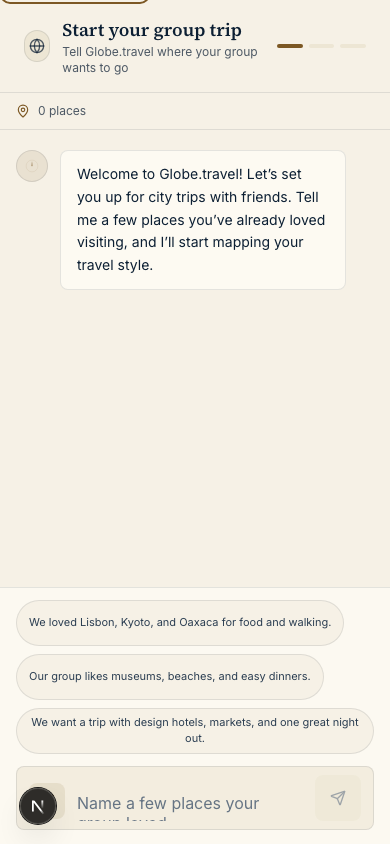
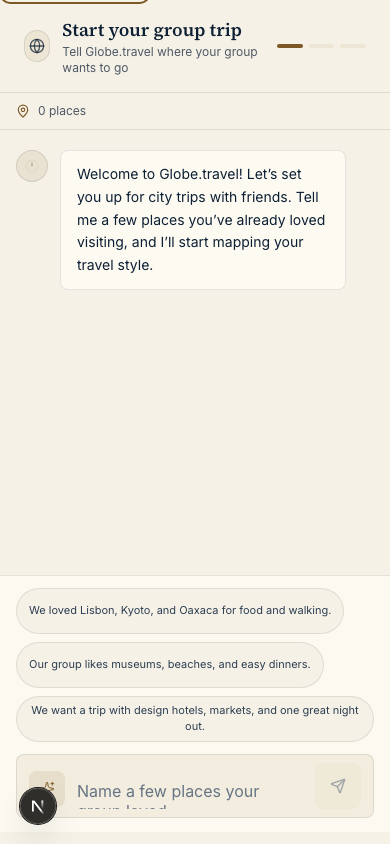
Fix mobile onboarding shell overlap

diff --git a/client/app/(app)/layout.tsx b/client/app/(app)/layout.tsx
@@ -1,21 +1,31 @@
 'use client'
 
+import { usePathname } from 'next/navigation'
 import { AuthProvider } from '@/components/providers/AuthProvider'
 import { QueryProvider } from '@/components/providers/QueryProvider'
 import { BottomNav } from '@/components/layout/BottomNav'
 import { Sidebar } from '@/components/layout/Sidebar'
 
 export default function AppLayout({ children }: { children: React.ReactNode }) {
+  const pathname = usePathname()
+  const isFullscreenFlow = pathname === '/onboarding'
+
   return (
     <QueryProvider>
       <AuthProvider>
-        <div className="app-shell flex bg-background text-foreground">
-          <Sidebar />
-          <main className="app-main flex-1">
+        {isFullscreenFlow ? (
+          <main className="h-dvh overflow-hidden bg-paper text-foreground">
             {children}
           </main>
-          <BottomNav />
-        </div>
+        ) : (
+          <div className="app-shell flex bg-background text-foreground">
+            <Sidebar />
+            <main className="app-main flex-1">
+              {children}
+            </main>
+            <BottomNav />
+          </div>
+        )}
       </AuthProvider>
     </QueryProvider>
   )

diff --git a/client/components/chat/OnboardingChat.tsx b/client/components/chat/OnboardingChat.tsx
@@ -41,7 +41,7 @@ export default function OnboardingChat({ onComplete, onPlaceAdded: onPlaceAddedP
   const canFinish = placesAdded.length >= 3
 
   return (
-    <div className="flex flex-col h-full">
+    <div className="flex h-full min-h-0 flex-col overflow-hidden pb-3 sm:pb-4 lg:pb-0">
       {/* Places tracker bar */}
       <div className="flex-shrink-0 px-4 py-2.5 border-b border-rule">
         <div className="flex items-center justify-between max-w-3xl mx-auto">
